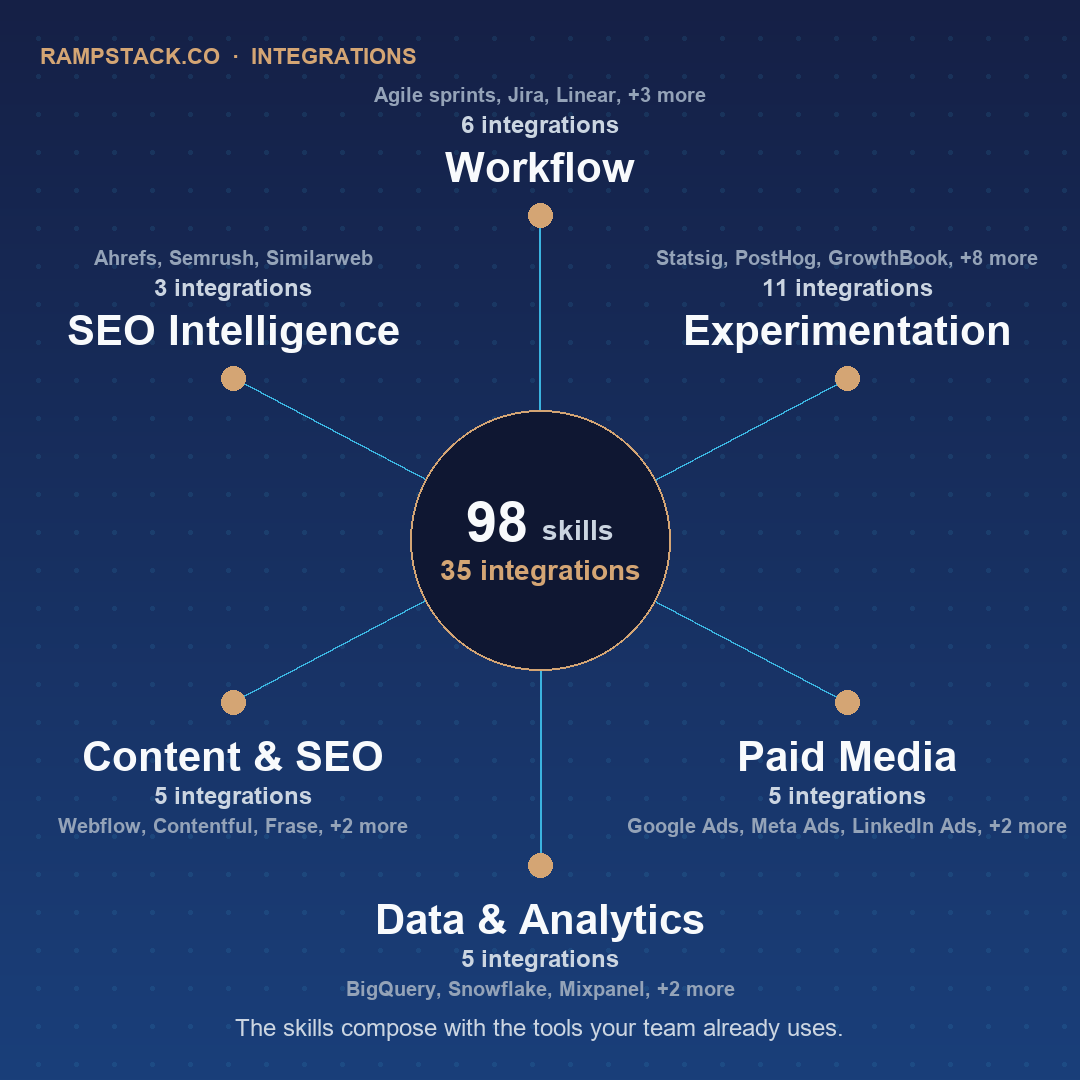
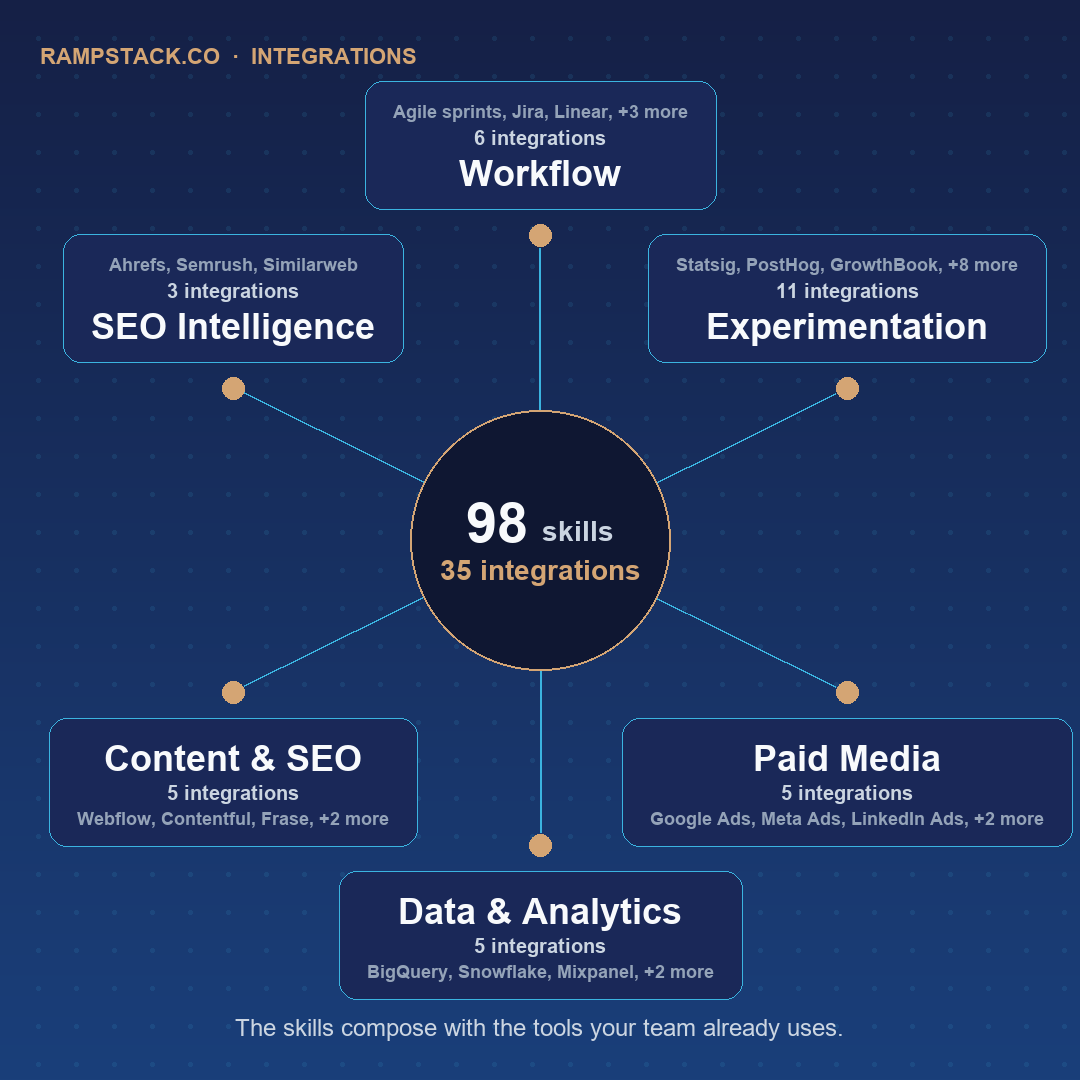
polish(docs): wrap architecture image categories in rounded corner boxes
Visual polish for the architecture diagram. With the readability-bump
typography, category text was reading as crowded near connection-line
endpoints. Wrapping each category cluster in a rounded rectangle
(navy fill at ~70% opacity, thin cyan border at ~24%, generous
padding) creates clear visual containment so neighboring categories
no longer appear to compete for the same space.

Connection lines now terminate just shy of the gold node dot, with
the dot floating between line endpoint and card edge nearest the
hub. Hub stays as the gold-ringed circle so its focal-element
character is preserved (shape distinct from the cards on its own).

Wide variant required a moderate typography reduction (label 36->28,
count 20->16, sample 18->14) to fit six cards inside the 1200x630
canvas without collisions; cards still scale up cleanly when the
image is viewed at full canvas resolution. Square variant got a
similar font reduction plus radius_y trimmed from 325 to 305 so the
top and bottom cards clear the chrome strips. Mobile variant uses
the smaller card paddings since its canvas is tightest.

Same content (no new variants, no README structure changes).

diff --git a/scripts/generate_architecture_image.py b/scripts/generate_architecture_image.py
@@ -61,6 +61,12 @@ INK = (248, 250, 252)            # near-white
 SLATE_LIGHT = (203, 213, 225)    # slate-300 for sub-headings
 SLATE_MUTED = (148, 163, 184)    # slate-400 for sample names
 
+# Card container per category. Subtle navy fill at ~70% opacity over the
+# gradient base, plus a thin cyan border at ~24% opacity. Strong enough
+# to read as visual containment without overpowering the brand register.
+CARD_FILL = (26, 40, 88, 178)
+CARD_BORDER = (59, 180, 224, 60)
+
 # Hub geometry. Tuned per variant in render_layout().
 HUB_RING_WIDTH = 2
 
@@ -93,6 +99,10 @@ class LayoutSpec:
     chrome_footer_size: int
     show_samples: bool = True   # mobile variant drops sample names for legibility
     show_chrome: bool = True    # mobile variant drops chrome to save vertical space
+    card_padding_x: int = 24    # horizontal padding inside category card
+    card_padding_y: int = 18    # vertical padding inside category card
+    card_radius: int = 14       # corner radius of category card
+    card_border_width: int = 1  # subtle 1px border on category card
 
 
 # Typography target: legibility at scaled-down README body width
@@ -108,16 +118,19 @@ WIDE_SPEC = LayoutSpec(
     hub_title_size=48,
     hub_sub_size=24,
     hub_label_size=24,
-    node_label_size=36,
-    node_count_size=20,
-    node_sample_size=18,
-    node_dot_radius=10,
-    text_offset=20,
-    line_gap=6,
+    node_label_size=28,
+    node_count_size=16,
+    node_sample_size=14,
+    node_dot_radius=8,
+    text_offset=16,
+    line_gap=5,
     header_y=28,
     footer_y=590,
     chrome_header_size=18,
     chrome_footer_size=20,
+    card_padding_x=22,
+    card_padding_y=14,
+    card_radius=14,
 )
 
 
@@ -125,21 +138,24 @@ SQUARE_SPEC = LayoutSpec(
     width=1080,
     height=1080,
     radius_x=355,
-    radius_y=325,
+    radius_y=305,
     hub_radius=130,
     hub_title_size=56,
     hub_sub_size=28,
     hub_label_size=28,
-    node_label_size=42,
-    node_count_size=24,
-    node_sample_size=20,
-    node_dot_radius=12,
-    text_offset=30,
-    line_gap=8,
+    node_label_size=36,
+    node_count_size=20,
+    node_sample_size=18,
+    node_dot_radius=11,
+    text_offset=26,
+    line_gap=7,
     header_y=44,
     footer_y=1014,
     chrome_header_size=22,
     chrome_footer_size=24,
+    card_padding_x=28,
+    card_padding_y=20,
+    card_radius=18,
 )
 
 
@@ -169,6 +185,9 @@ MOBILE_SPEC = LayoutSpec(
     chrome_footer_size=0,   # unused when show_chrome=False
     show_samples=False,
     show_chrome=False,
+    card_padding_x=24,
+    card_padding_y=20,
+    card_radius=14,
 )
 
 
@@ -323,12 +342,14 @@ def render_node(
     angle_deg: float,
     category: dict,
 ) -> None:
-    """One category node: gold dot, label, count, sample integrations.
+    """One category node: rounded card containing label, count, samples.
 
-    Text stacks above or below the node based on the node's vertical
-    position relative to the hub. Top half gets text above (samples
-    furthest from node); bottom half gets text below (samples furthest
-    from node, label nearest).
+    Card sits text_offset px outward from the node along the radial,
+    so the gold dot at the original node position floats between the
+    connection line endpoint and the card edge nearest the hub. Within
+    the card, rows stack so that the label is always closest to the
+    node (top of card when text below the node, bottom of card when
+    above), with counts in the middle and sample names farthest.
     """
     cx, cy = spec.width // 2, spec.height // 2
     angle_rad = math.radians(angle_deg)
@@ -336,75 +357,105 @@ def render_node(
     ny = cy + spec.radius_y * math.sin(angle_rad)
     nx_i, ny_i = int(round(nx)), int(round(ny))
 
-    # Connection line back to the hub. Drawn first so the dot covers
-    # the line endpoint cleanly.
+    label_font = font_bold(spec.node_label_size)
+    count_font = font_bold(spec.node_count_size)
+    label = category["label"]
+    count = f"{len(category['integrations'])} integrations"
+    label_w = text_width(draw, label, label_font)
+    count_w = text_width(draw, count, count_font)
+
+    sample_font: ImageFont.ImageFont | None = None
+    sample_text = ""
+    sample_w = 0
+    if spec.show_samples:
+        sample_font = font_bold(spec.node_sample_size)
+        samples = category["integrations"][:3]
+        extra = len(category["integrations"]) - 3
+        sample_text = ", ".join(samples) + (
+            f", +{extra} more" if extra > 0 else ""
+        )
+        sample_w = text_width(draw, sample_text, sample_font)
+
+    # Card geometry: width fits the widest row plus horizontal padding;
+    # height is the row stack plus vertical padding.
+    inner_w = max(label_w, count_w, sample_w)
+    rows_h = spec.node_label_size + spec.line_gap + spec.node_count_size
+    if spec.show_samples:
+        rows_h += spec.line_gap + spec.node_sample_size
+    card_w = inner_w + 2 * spec.card_padding_x
+    card_h = rows_h + 2 * spec.card_padding_y
+
+    text_above = math.sin(angle_rad) < 0
+    if text_above:
+        card_bottom = ny_i - spec.text_offset
+        card_top = card_bottom - card_h
+    else:
+        card_top = ny_i + spec.text_offset
+        card_bottom = card_top + card_h
+    card_left = nx_i - card_w // 2
+    card_right = card_left + card_w
+
+    # Connection line ends just shy of the gold node dot; the dot then
+    # sits between the line endpoint and the card edge nearest the hub.
+    dx = nx_i - cx
+    dy = ny_i - cy
+    distance = math.sqrt(dx * dx + dy * dy)
+    if distance > 0:
+        line_back = spec.node_dot_radius + 2
+        ratio = max(0.0, (distance - line_back) / distance)
+        line_end_x = cx + dx * ratio
+        line_end_y = cy + dy * ratio
+    else:
+        line_end_x, line_end_y = float(cx), float(cy)
     draw.line(
-        (cx, cy, nx_i, ny_i),
+        [(cx, cy), (line_end_x, line_end_y)],
         fill=(CYAN[0], CYAN[1], CYAN[2], 90),
         width=2,
     )
 
+    # Card backing: filled rounded rectangle with thin cyan outline.
+    draw.rounded_rectangle(
+        [(card_left, card_top), (card_right, card_bottom)],
+        radius=spec.card_radius,
+        fill=CARD_FILL,
+        outline=CARD_BORDER,
+        width=spec.card_border_width,
+    )
+
+    # Gold node dot at the original node position. Sits between the
+    # line endpoint and the card edge.
     r = spec.node_dot_radius
     draw.ellipse(
         (nx_i - r, ny_i - r, nx_i + r, ny_i + r),
         fill=ACCENT_GOLD,
     )
 
-    label_font = font_bold(spec.node_label_size)
-    count_font = font_bold(spec.node_count_size)
-
-    label = category["label"]
-    count = f"{len(category['integrations'])} integrations"
-
-    label_w = text_width(draw, label, label_font)
-    count_w = text_width(draw, count, count_font)
-
-    text_above = math.sin(angle_rad) < 0
-
+    # Stack rows top-to-bottom inside the card. When text sits above
+    # the node the label is closest to the node, which means it ends
+    # up at the bottom of the card; reverse the stack accordingly.
+    rows: list[tuple[str, ImageFont.ImageFont, int, tuple, int]] = []
     if text_above:
-        # Text stacks upward from the node: label closest, then count,
-        # then (optionally) sample names. Walk the stack y-offsets.
-        label_y = ny_i - spec.text_offset - spec.node_label_size
-        count_y = label_y - spec.line_gap - spec.node_count_size
+        if spec.show_samples and sample_font is not None:
+            rows.append(
+                (sample_text, sample_font, sample_w, SLATE_MUTED, spec.node_sample_size)
+            )
+        rows.append((count, count_font, count_w, SLATE_LIGHT, spec.node_count_size))
+        rows.append((label, label_font, label_w, INK, spec.node_label_size))
     else:
-        label_y = ny_i + spec.text_offset
-        count_y = label_y + spec.node_label_size + spec.line_gap
+        rows.append((label, label_font, label_w, INK, spec.node_label_size))
+        rows.append((count, count_font, count_w, SLATE_LIGHT, spec.node_count_size))
+        if spec.show_samples and sample_font is not None:
+            rows.append(
+                (sample_text, sample_font, sample_w, SLATE_MUTED, spec.node_sample_size)
+            )
 
-    # Center each line on the node x-position.
-    draw.text(
-        (nx_i - label_w // 2, label_y),
-        label,
-        fill=INK,
-        font=label_font,
-    )
-    draw.text(
-        (nx_i - count_w // 2, count_y),
-        count,
-        fill=SLATE_LIGHT,
-        font=count_font,
-    )
-
-    if not spec.show_samples:
-        return
-
-    sample_font = font_bold(spec.node_sample_size)
-    samples = category["integrations"][:3]
-    extra = len(category["integrations"]) - 3
-    if extra > 0:
-        sample_text = ", ".join(samples) + f", +{extra} more"
-    else:
-        sample_text = ", ".join(samples)
-    sample_w = text_width(draw, sample_text, sample_font)
-    if text_above:
-        sample_y = count_y - spec.line_gap - spec.node_sample_size
-    else:
-        sample_y = count_y + spec.node_count_size + spec.line_gap
-    draw.text(
-        (nx_i - sample_w // 2, sample_y),
-        sample_text,
-        fill=SLATE_MUTED,
-        font=sample_font,
-    )
+    text_x = (card_left + card_right) // 2
+    y_cursor = card_top + spec.card_padding_y
+    for i, (txt, fnt, w, fill_color, sz) in enumerate(rows):
+        draw.text((text_x - w // 2, y_cursor), txt, fill=fill_color, font=fnt)
+        y_cursor += sz
+        if i < len(rows) - 1:
+            y_cursor += spec.line_gap
 
 
 def render_chrome(
